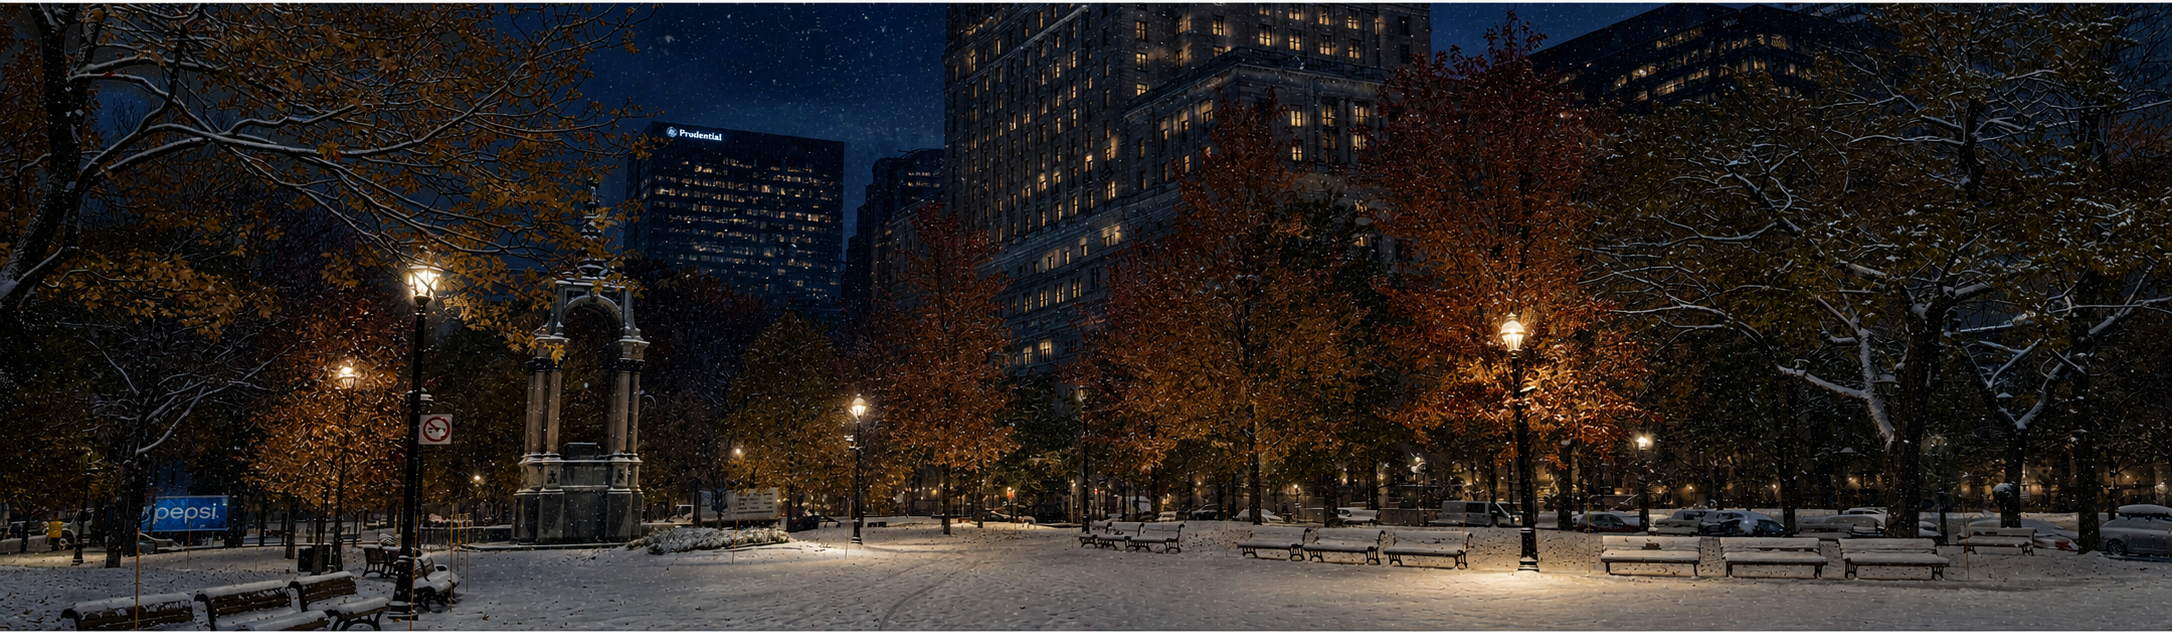
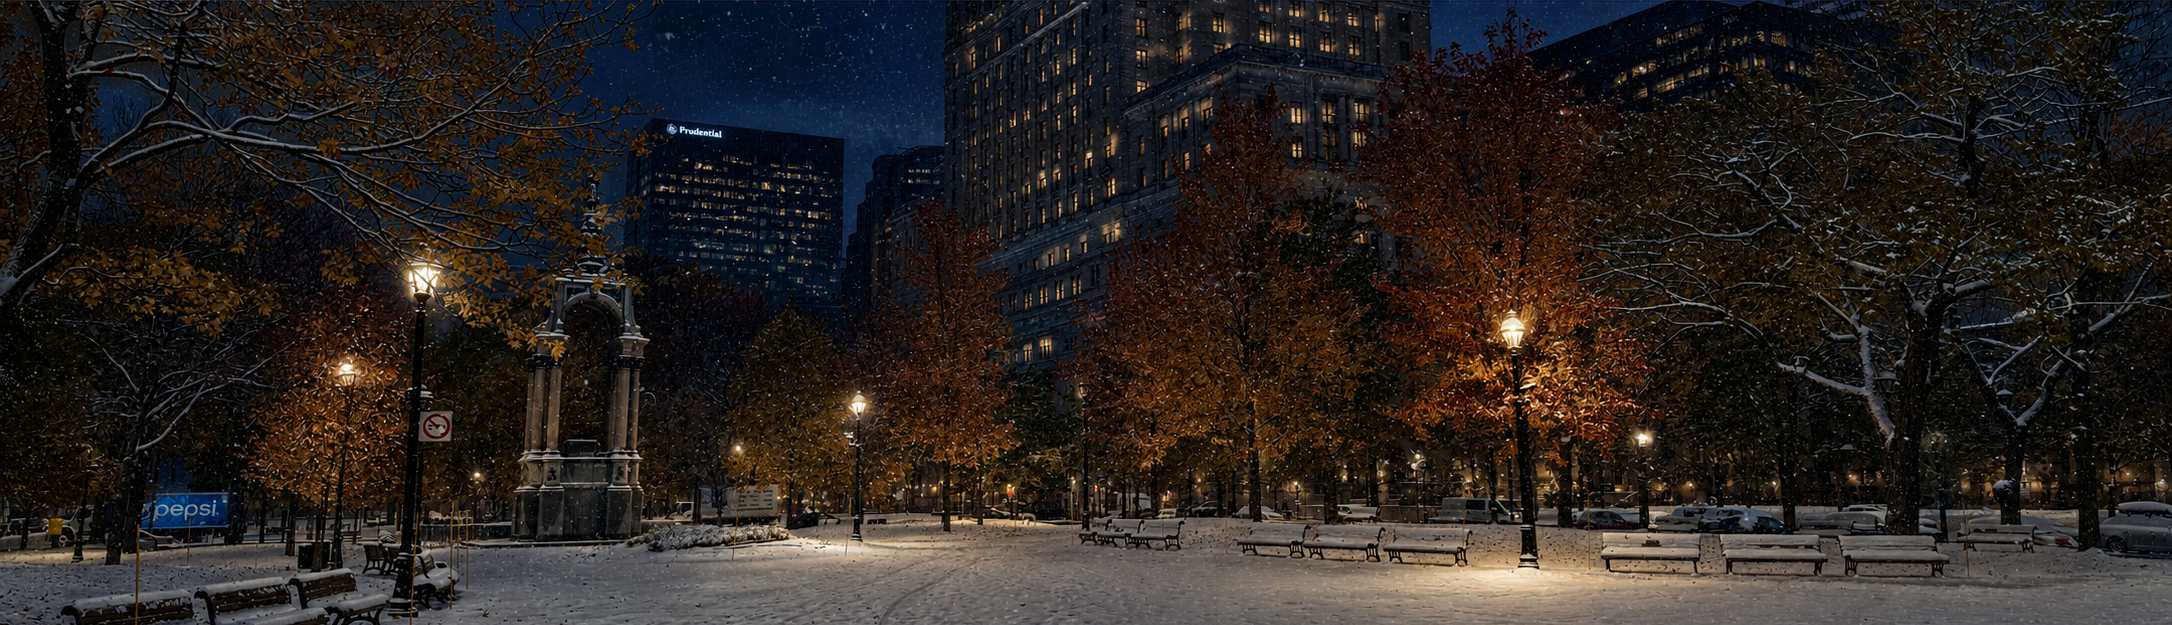
Consolidate publications into the markdown source

diff --git a/index.html b/index.html
@@ -169,45 +169,7 @@
             <header>
                 <h2 id="publications-subtitle"><i class="bi bi-file-text-fill"></i>&nbsp;PUBLICATIONS</h2>
             </header>
-            <div class="main-body" id="publications-md">
-                <div class="publication-list">
-                  <article class="publication-card">
-                    <h3>LLM4Log: A Systematic Review of Large Language Model-based Log Analysis <a href="paper/LLM4Log_Survey.pdf">[Paper]</a> <a href="https://github.com/zeyang919/LLM4Log" target="_blank" rel="noopener noreferrer">[Code]</a></h3>
-                    <p class="publication-authors"><strong>Zeyang Ma</strong>, Jinqiu Yang, Tse-Hsun (Peter) Chen</p>
-                    <p class="publication-venue">Under Review</p>
-                  </article>
-
-                  <article class="publication-card">
-                    <h3>Unsupervised, Accurate, and Efficient Log Parsing Using Smaller Open-Source Large Language Models <a href="paper/LibreLog_extension.pdf">[Paper]</a> <a href="https://github.com/zeyang919/LibreLog" target="_blank" rel="noopener noreferrer">[Code]</a></h3>
-                    <p class="publication-authors"><strong>Zeyang Ma</strong>, Dong Jae Kim, Tse-Hsun (Peter) Chen</p>
-                    <p class="publication-venue">ACM Transactions on Software Engineering and Methodology (TOSEM 2025)</p>
-                  </article>
-
-                  <article class="publication-card">
-                    <h3>Benchmarking Open-source Large Language Models For Log Level Suggestion <a href="paper/LogLevelLLM.pdf">[Paper]</a> <a href="https://github.com/sunnyh404/LogLevelLLM" target="_blank" rel="noopener noreferrer">[Code]</a></h3>
-                    <p class="publication-authors">Yi Wen Heng, <strong>Zeyang Ma</strong>, Zhenhao Li, Dong Jae Kim, Tse-Hsun (Peter) Chen</p>
-                    <p class="publication-venue">18th IEEE International Conference on Software Testing, Verification and Validation (ICST 2025)</p>
-                  </article>
-
-                  <article class="publication-card">
-                    <h3>LibreLog: Accurate and Efficient Unsupervised Log Parsing Using Open-Source Large Language Models <a href="paper/LibreLog.pdf">[Paper]</a> <a href="https://github.com/zeyang919/LibreLog" target="_blank" rel="noopener noreferrer">[Code]</a></h3>
-                    <p class="publication-authors"><strong>Zeyang Ma</strong>, Dong Jae Kim, Tse-Hsun (Peter) Chen</p>
-                    <p class="publication-venue">47th IEEE/ACM International Conference on Software Engineering (ICSE 2025)</p>
-                  </article>
-
-                  <article class="publication-card">
-                    <h3>LLMParser: An Exploratory Study on Using Large Language Models for Log Parsing <a href="paper/LLMParser.pdf">[Paper]</a> <a href="https://github.com/zeyang919/LLMParser" target="_blank" rel="noopener noreferrer">[Code]</a></h3>
-                    <p class="publication-authors"><strong>Zeyang Ma</strong>, An Ran Chen, Dong Jae Kim, Tse-Hsun (Peter) Chen, Shaowei Wang</p>
-                    <p class="publication-venue">46th IEEE/ACM International Conference on Software Engineering (ICSE 2024)</p>
-                  </article>
-
-                  <article class="publication-card">
-                    <h3>VulNet: Towards Improving Vulnerability Management in the Maven Ecosystem <a href="paper/Vulnet.pdf">[Paper]</a> <a href="https://github.com/SPEAR-SE/Vulnet" target="_blank" rel="noopener noreferrer">[Code]</a></h3>
-                    <p class="publication-authors"><strong>Zeyang Ma</strong>, Shouvick Mondal, Tse-Hsun (Peter) Chen, Haoxiang Zhang, Ahmed E. Hassan</p>
-                    <p class="publication-venue">Empirical Software Engineering Journal (EMSE 2024)</p>
-                  </article>
-                </div>
-            </div>
+            <div class="main-body" id="publications-md"></div>
 
         </div>
     </section>

diff --git a/static/css/main.css b/static/css/main.css
@@ -23,7 +23,9 @@
     --toggle-bg: rgba(57, 72, 210, 0.08);
     --toggle-border: rgba(57, 72, 210, 0.18);
     --top-background-image: url('../assets/img/background.jpeg');
+    --top-background-color: #dbe0df;
     --top-overlay: rgba(0, 0, 0, 0);
+    --photo-halo: rgba(0, 0, 0, 0.26);
     --bs-body-color: var(--body-text);
     --bs-body-bg: var(--page-bg);
     --bs-link-color: var(--link-color);
@@ -55,7 +57,9 @@ html[data-theme="dark"] {
     --toggle-bg: rgba(143, 156, 255, 0.14);
     --toggle-border: rgba(143, 156, 255, 0.32);
     --top-background-image: url('../assets/img/background_night.png');
+    --top-background-color: #10151b;
     --top-overlay: rgba(0, 0, 0, 0.18);
+    --photo-halo: rgba(0, 0, 0, 0.38);
     --bs-body-color: var(--body-text);
     --bs-body-bg: var(--page-bg);
     --bs-link-color: var(--link-color);
@@ -90,6 +94,8 @@ body {
 .top-section {
     position: relative;
     padding: 10rem 0;
+    overflow: hidden;
+    background-color: var(--top-background-color);
     background-image: var(--top-background-image);
     background-position: center;
     background-size: cover;
@@ -109,10 +115,7 @@ body {
 .top-section:before {
     content: "";
     position: absolute;
-    top: 0;
-    left: 0;
-    width: 100%;
-    height: 100%;
+    inset: -1px;
     background: var(--top-overlay);
     pointer-events: none;
 }
@@ -335,11 +338,25 @@ section .main-body li > ol {
 
 .photo {
     position: relative;
+    z-index: 0;
     display: flex;
     flex-direction: column;
     align-items: center;
     margin-top: 0;
     pointer-events: auto;
+}
+
+.photo:before {
+    content: "";
+    position: absolute;
+    top: -0.55rem;
+    right: -0.75rem;
+    bottom: 1.95rem;
+    left: -0.75rem;
+    z-index: -1;
+    background: radial-gradient(ellipse at center, var(--photo-halo) 0%, rgba(0, 0, 0, 0.12) 45%, rgba(0, 0, 0, 0) 72%);
+    filter: blur(0.5rem);
+    pointer-events: none;
 }
 
 .profile-column {
@@ -349,10 +366,12 @@ section .main-body li > ol {
 }
 
 .photo img {
+    position: relative;
+    z-index: 1;
     height: 12rem;
     width: 12rem;
     object-fit: cover;
-    box-shadow: 0 0.85rem 2rem rgba(0, 0, 0, 0.38), 0 0 0 1px rgba(255, 255, 255, 0.18);
+    box-shadow: 0 0.9rem 2.2rem rgba(0, 0, 0, 0.42), 0 0.2rem 0.9rem rgba(0, 0, 0, 0.22);
     margin-bottom: 0.5rem;
 }
 